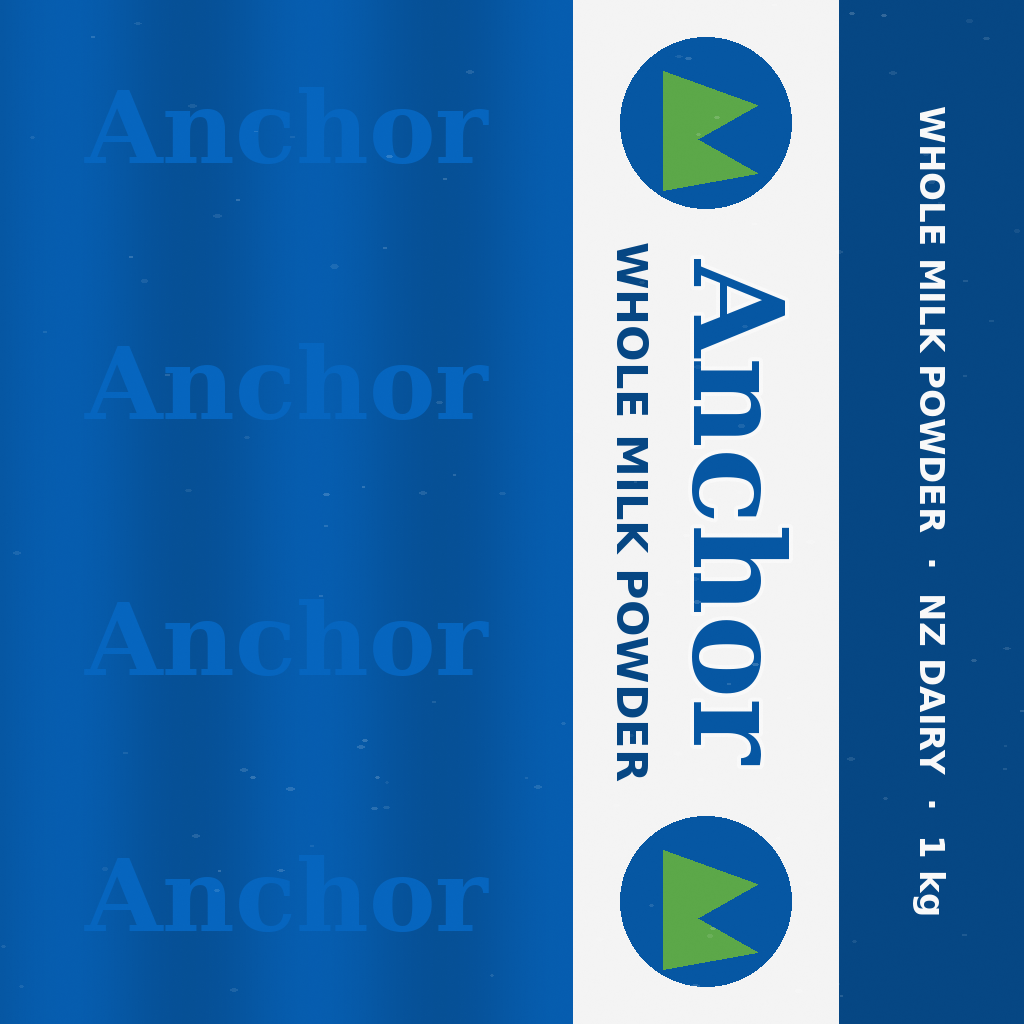
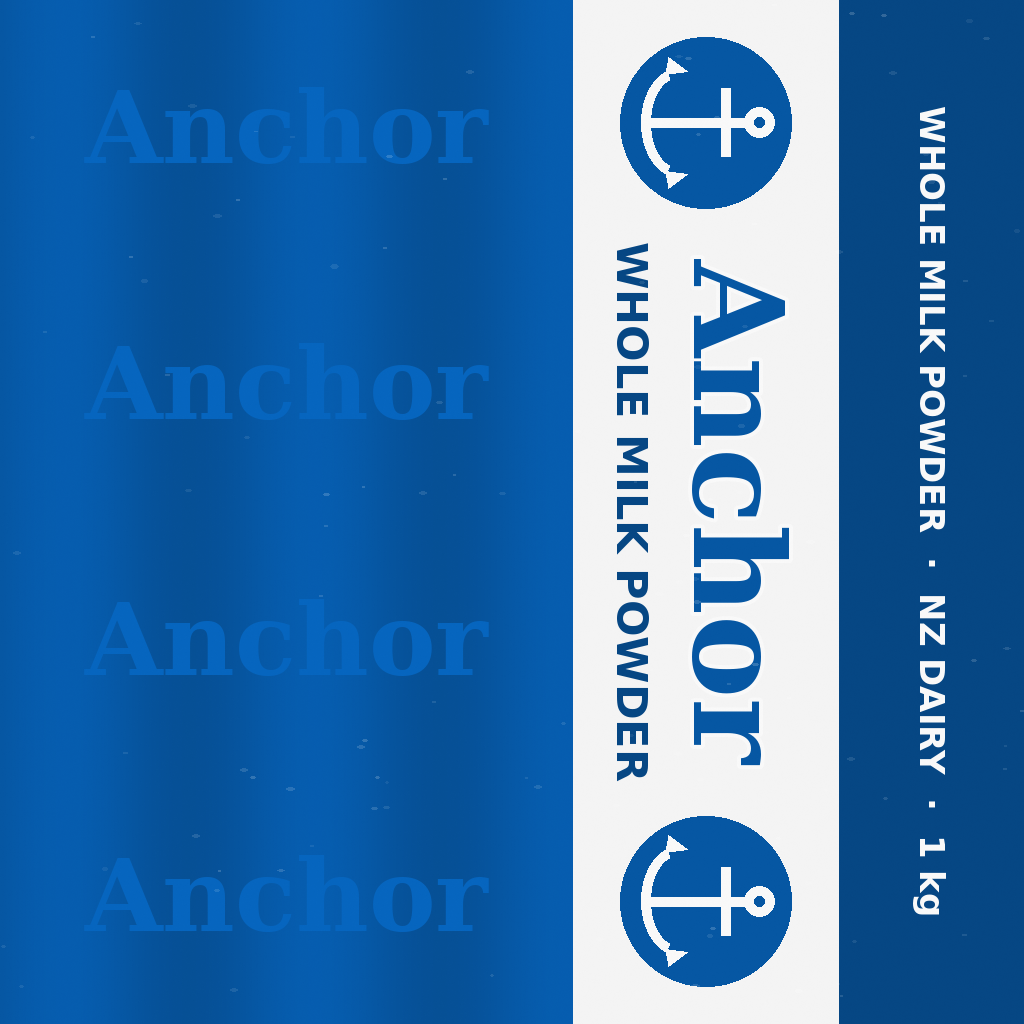
Closer brand styling on the food labels; NZ-style spawn locations for the food

Changed region(s): [[0.625, 0.8125, 0.75, 0.9688], [0.625, 0.0625, 0.75, 0.1875]]

diff --git a/tools/nz_food.py b/tools/nz_food.py
@@ -93,7 +93,7 @@ ITEMS = [
     # Fizzy drinks: one for each vanilla soda can.
     Item("lp", "Aotearoa_SodaCan_LP", "SodaCan_Cola", "soda", "L&P",
          "Lemon & Paeroa. " + SODA + "Sweet, lemony and made in Paeroa since 1907.", (20, 16),
-         dict(brand="L&P", sub="LEMON & PAEROA", tag="Since 1907", bg=(247, 205, 30), bg2=(120, 72, 30),
+         dict(brand="L&P", sub="LEMON & PAEROA", tag="World Famous in New Zealand", bg=(247, 205, 30), bg2=(120, 72, 30),
               fg=(70, 40, 18), motif="lp")),
     Item("freshup", "Aotearoa_SodaCan_FreshUp", "SodaCan_Fronta", "soda", "Fresh Up Apple",
          SODA + "Sparkling apple juice drink.", (20, 16),
@@ -102,11 +102,11 @@ ITEMS = [
     Item("foxton_cream", "Aotearoa_SodaCan_FoxtonCream", "SodaCan_Spite", "soda", "Foxton Fizz Creaming Soda",
          SODA + "Creaming soda from Foxton.", (20, 16),
          dict(brand="Foxton Fizz", sub="CREAMING SODA", tag="Est. 1918", bg=(250, 238, 214), bg2=(226, 80, 140),
-              fg=(140, 30, 80), motif="bubbles")),
+              fg=(140, 30, 80), motif="windmill")),
     Item("foxton_rasp", "Aotearoa_SodaCan_FoxtonRaspberry", "SodaCan_Pipsi", "soda", "Foxton Fizz Raspberry",
          SODA + "Raspberry soda from Foxton.", (20, 16),
          dict(brand="Foxton Fizz", sub="RASPBERRY", tag="Est. 1918", bg=(196, 22, 60), bg2=(250, 160, 190),
-              fg=(255, 255, 255), motif="bubbles")),
+              fg=(255, 255, 255), motif="windmill")),
     Item("liftplus", "Aotearoa_SodaCan_LiftPlus", "SodaCan_Kvass", "soda", "Lift Plus",
          SODA + "Lemon energy drink with guarana.", (20, 16),
          dict(brand="Lift Plus", sub="ENERGY", tag="with guarana", bg=(250, 222, 40), bg2=(20, 70, 160),
@@ -176,7 +176,7 @@ ITEMS = [
     Item("weetbix", "Aotearoa_WeetBix", "BoxCerealCrunchin", "cereal", "Sanitarium Weet-Bix",
          "Sanitarium Weet-Bix whole grain wheat biscuits. Three with milk will keep you going.", (23, 18),
          dict(brand="Weet-Bix", sub="WHOLE GRAIN WHEAT BISCUITS", tag="Sanitarium", bg=(250, 200, 35),
-              bg2=(25, 70, 160), fg=(205, 30, 35))),
+              bg2=(25, 70, 160), fg=(205, 30, 35), slogan="Kiwi kids are Weet-Bix kids")),
     # Wattie's tins.
     Item("watties_beans", "Aotearoa_Watties_BakedBeans", "BakedBeansCan", "tin", "Wattie's Baked Beans",
          "Wattie's baked beans in tomato sauce. 420 g.", (25, 18),
@@ -233,6 +233,30 @@ ITEMS = [
               fg=(210, 30, 40), motif="fish"),
          opened="SardinesCan_Opened", usages=["Coast", "Town", "Village"]),
 ]
+# Where each kind of item spawns, New Zealand style: snacks and fizzy drinks in the dairies, petrol
+# stations and depots (Industrial), schools and offices; dairy and honey on the farms; canned fish on
+# the coast; the pantry staples in houses, baches and huts. Items not listed keep their vanilla usages.
+SPAWN = {
+    "snacks": (["Town", "Village", "Industrial", "School", "Office"],
+               ["bluebird_salted", "bluebird_vinegar", "bluebird_chicken", "munchos", "toffeepops", "shrewsburys",
+                "chocthins", "pineapplelumps", "whittakers_milk", "whittakers_dark", "whittakers_peanut"]),
+    "fizzy": (["Town", "Village", "Industrial", "School", "Office"], ["lp", "freshup", "foxton_cream", "foxton_rasp",
+                                                                       "liftplus"]),
+    "dairy": (["Farm", "Village"], ["anchor_milk", "airborne_honey"]),
+    "fish": (["Coast", "Town", "Village"], ["sealord_tuna", "pams_sardines"]),
+    "pantry": (["Town", "Village", "Farm", "Hunting"], ["risotto", "weetbix", "marmite", "watties_beans",
+                                                         "watties_spaghetti", "watties_peaches", "palm_cornedbeef",
+                                                         "hellers_bacon"]),
+    "pets": (["Farm", "Village"], ["tux_dogfood", "jellimeat"]),
+}
+# Dairy country: more milk powder and honey than vanilla has.
+LOOT = {"anchor_milk": (35, 25), "airborne_honey": (30, 22)}
+for _usages, _keys in SPAWN.values():
+    for _item in ITEMS:
+        if _item.key in _keys:
+            _item.usages = _usages
+for _item in ITEMS:
+    _item.loot = LOOT.get(_item.key, _item.loot)
 ITEM_CLASSES = {i.cls for i in ITEMS} | {i.cls + "_Opened" for i in ITEMS if i.opened}
 
 
@@ -522,7 +546,27 @@ def m_bacon(d, box, a, rng):
         d.line([(x, yy - 0.025 * h) for x, yy in pts], fill=(245, 215, 200), width=int(0.03 * h), joint="curve")
 
 
-MOTIFS = {"bacon": m_bacon, "dog": m_paws, "cat": m_paws, "lumps": m_lumps, "fish": m_fish, "chips": m_chips, "tomatoes": m_tomatoes, "toffeepops": m_biscuits, "shrewsburys": m_biscuits,
+def m_windmill(d, box, a, rng):
+    """Foxton's Dutch windmill, with bubbles rising past it."""
+    m_bubbles(d, box, a, rng)
+    x0, y0, x1, y1 = box
+    w, h = x1 - x0, y1 - y0
+    X, base, top = x0 + 0.5 * w, y1 - 0.02 * h, y0 + 0.55 * h
+    body = shade(a["fg"], 1.0)
+    d.polygon([(X - 0.16 * w, base), (X + 0.16 * w, base), (X + 0.09 * w, top), (X - 0.09 * w, top)], fill=body)
+    d.pieslice((X - 0.1 * w, top - 0.08 * h, X + 0.1 * w, top + 0.08 * h), 180, 360, fill=body)
+    d.rectangle((X - 0.03 * w, base - 0.12 * h, X + 0.03 * w, base), fill=(255, 255, 255))
+    hx, hy = X, top - 0.01 * h
+    for k in range(4):
+        t = math.radians(45 + 90 * k)
+        ex, ey = hx + math.cos(t) * 0.27 * w, hy + math.sin(t) * 0.27 * w
+        px, py = -math.sin(t) * 0.05 * w, math.cos(t) * 0.05 * w
+        d.polygon([(hx, hy), (ex, ey), (ex + px, ey + py), (hx + px * 0.4, hy + py * 0.4)], fill=(250, 245, 230),
+                  outline=body)
+    d.ellipse((hx - 0.025 * w, hy - 0.025 * w, hx + 0.025 * w, hy + 0.025 * w), fill=body)
+
+
+MOTIFS = {"windmill": m_windmill, "bacon": m_bacon, "dog": m_paws, "cat": m_paws, "lumps": m_lumps, "fish": m_fish, "chips": m_chips, "tomatoes": m_tomatoes, "toffeepops": m_biscuits, "shrewsburys": m_biscuits,
           "chocthins": m_biscuits, "bubbles": m_bubbles, "apples": m_apples, "bolt": m_bolt, "lp": m_lp,
           "beans": m_beans, "spaghetti": m_spaghetti, "peaches": m_peaches, "palm": m_palm, "marmite": m_marmite}
 
@@ -565,7 +609,11 @@ def front(w: int, h: int, item: Item, rng) -> Image.Image:
     else:
         kind = "script" if a["brand"] in ("Wattie's", "Griffin's", "Foxton Fizz", "Pascall", "Pams") else "italic"
         stroke = shade(a["bg"], 0.45) if a["fg"] == (255, 255, 255) else (255, 255, 255)
-        text(d, (0.5 * w, brand_y * h), a["brand"], kind, 0.86 * w, brand_h * h, a["fg"], max(3, w // 120), stroke)
+        if a["brand"] == "L&P":
+            d.rounded_rectangle((0.1 * w, (brand_y - 0.13) * h, 0.9 * w, (brand_y + 0.13) * h), radius=int(0.1 * h),
+                                fill=(255, 245, 210), outline=a["fg"], width=max(4, w // 70))
+        text(d, (0.5 * w, brand_y * h), a["brand"], kind, 0.86 * w if a["brand"] != "L&P" else 0.7 * w,
+             brand_h * h if a["brand"] != "L&P" else 0.22 * h, a["fg"], max(3, w // 120), stroke)
         sub_y = 0.42 if not tin else 0.51
         sub_fill = (255, 255, 255) if tin else a["fg"]
         sub_stroke = (255, 255, 255) if sum(sub_fill) < 300 else shade(a["bg2"], 0.5)
@@ -702,6 +750,8 @@ def cereal(item: Item, rng) -> Image.Image:
     fd.polygon([(0, 0.3 * fh), (fw, 0.18 * fh), (fw, 0.34 * fh), (0, 0.46 * fh)], fill=a["bg2"])
     text(fd, (0.5 * fw, 0.13 * fh), a["brand"], "italic", 0.9 * fw, 0.2 * fh, a["fg"], 6, (255, 255, 255))
     text(fd, (0.5 * fw, 0.32 * fh), a["sub"], "sans", 0.86 * fw, 0.06 * fh, (255, 255, 255))
+    if a.get("slogan"):
+        text(fd, (0.5 * fw, 0.46 * fh), a["slogan"], "italic", 0.8 * fw, 0.055 * fh, a["bg2"], 2, (255, 255, 255))
     text(fd, (0.85 * fw, 0.04 * fh), a["tag"], "italic", 0.28 * fw, 0.04 * fh, (40, 90, 40))
     bx, by, br = 0.5 * fw, 0.72 * fh, 0.38 * fw
     fd.ellipse((bx - br, by - br * 0.5, bx + br, by + br * 0.75), fill=(245, 245, 250), outline=(170, 170, 180), width=6)
@@ -742,9 +792,12 @@ def bar(item: Item, rng) -> Image.Image:
     for r in range(rows):
         y = r * rh
         if r % 2 == 0:
+            for yy in (y + rh * 0.04, y + rh * 0.96):
+                d.line((0, yy, w, yy), fill=a["bg2"], width=max(3, int(rh * 0.04)))
             for c in range(2):
-                text(d, ((c + 0.5) * w / 2, y + rh * 0.5), a["brand"], "script",
-                     w / 2.3, rh * 0.75, a["fg"], 3, shade(a["bg"], 0.5))
+                text(d, ((c + 0.5) * w / 2, y + rh * 0.42), a["brand"], "script",
+                     w / 2.3, rh * 0.6, a["fg"], 3, shade(a["bg"], 0.5))
+                text(d, ((c + 0.5) * w / 2, y + rh * 0.82), "EST. 1896", "sans", w / 8, rh * 0.13, a["bg2"])
         else:
             d.rectangle((0, y + rh * 0.08, w, y + rh * 0.92), fill=a["bg2"])
             for c in range(3):
@@ -797,6 +850,18 @@ def rice(item: Item, rng) -> Image.Image:
     return wear(im, rng, 6)
 
 
+def anchor(d, X, Y, s, fill):
+    """A ship's anchor, upright, centred on (X, Y), about 2s tall."""
+    lw = max(3, int(0.16 * s))
+    d.ellipse((X - 0.22 * s, Y - s, X + 0.22 * s, Y - 0.56 * s), outline=fill, width=lw)
+    d.line((X, Y - 0.56 * s, X, Y + 0.85 * s), fill=fill, width=lw)
+    d.line((X - 0.5 * s, Y - 0.3 * s, X + 0.5 * s, Y - 0.3 * s), fill=fill, width=lw)
+    d.arc((X - 0.8 * s, Y - 0.15 * s, X + 0.8 * s, Y + 0.95 * s), 20, 160, fill=fill, width=lw)
+    for side in (-1, 1):
+        tx, ty = X + side * 0.76 * s, Y + 0.55 * s
+        d.polygon([(tx, ty - 0.28 * s), (tx - side * 0.05 * s, ty + 0.05 * s), (tx + side * 0.2 * s, ty)], fill=fill)
+
+
 def milk(item: Item, rng) -> Image.Image:
     """Powdered milk bag: plain body on the left, the label running down the texture (rotated a quarter
     turn) in the middle, and a coloured side band on the right."""
@@ -813,10 +878,8 @@ def milk(item: Item, rng) -> Image.Image:
     text(ld, (0.5 * lab_w, 0.78 * lab_h), a["sub"], "sans", 0.55 * lab_w, 0.18 * lab_h, shade(a["bg"], 0.8))
     for side in (0.12, 0.88):
         X, Y, R = side * lab_w, 0.5 * lab_h, 0.32 * lab_h
-        d2 = ld
-        d2.ellipse((X - R, Y - R, X + R, Y + R), fill=a["bg"])
-        d2.polygon([(X - 0.6 * R, Y + 0.5 * R), (X - 0.2 * R, Y - 0.6 * R), (X + 0.2 * R, Y + 0.1 * R),
-                    (X + 0.6 * R, Y - 0.6 * R), (X + 0.8 * R, Y + 0.5 * R)], fill=(90, 170, 70))
+        ld.ellipse((X - R, Y - R, X + R, Y + R), fill=a["bg"])
+        anchor(ld, X, Y, 0.8 * R, (255, 255, 255))
     im.paste(lab.rotate(-90, expand=True), (int(0.56 * w), 0))
     d.rectangle((int(0.82 * w), 0, w, h), fill=shade(a["bg"], 0.8))
     band = Image.new("RGB", (h, w - int(0.82 * w)), shade(a["bg"], 0.8))

diff --git a/wip/food/mod.cpp b/wip/food/mod.cpp
@@ -1,6 +1,6 @@
 name = "Aotearoa food (work in progress)";
 author = "KeybroAU";
-version = "0.6.5";
+version = "0.6.6";
 overview = "Test copies of the Aotearoa food and drink (AotearoaWIP_* classes) for trying new labels. Not for public servers. Load after @Aotearoa.";
 tooltip = "Aotearoa food WIP";
 action = "https://github.com/KeybroAU/aotearoa-dayz-map";
